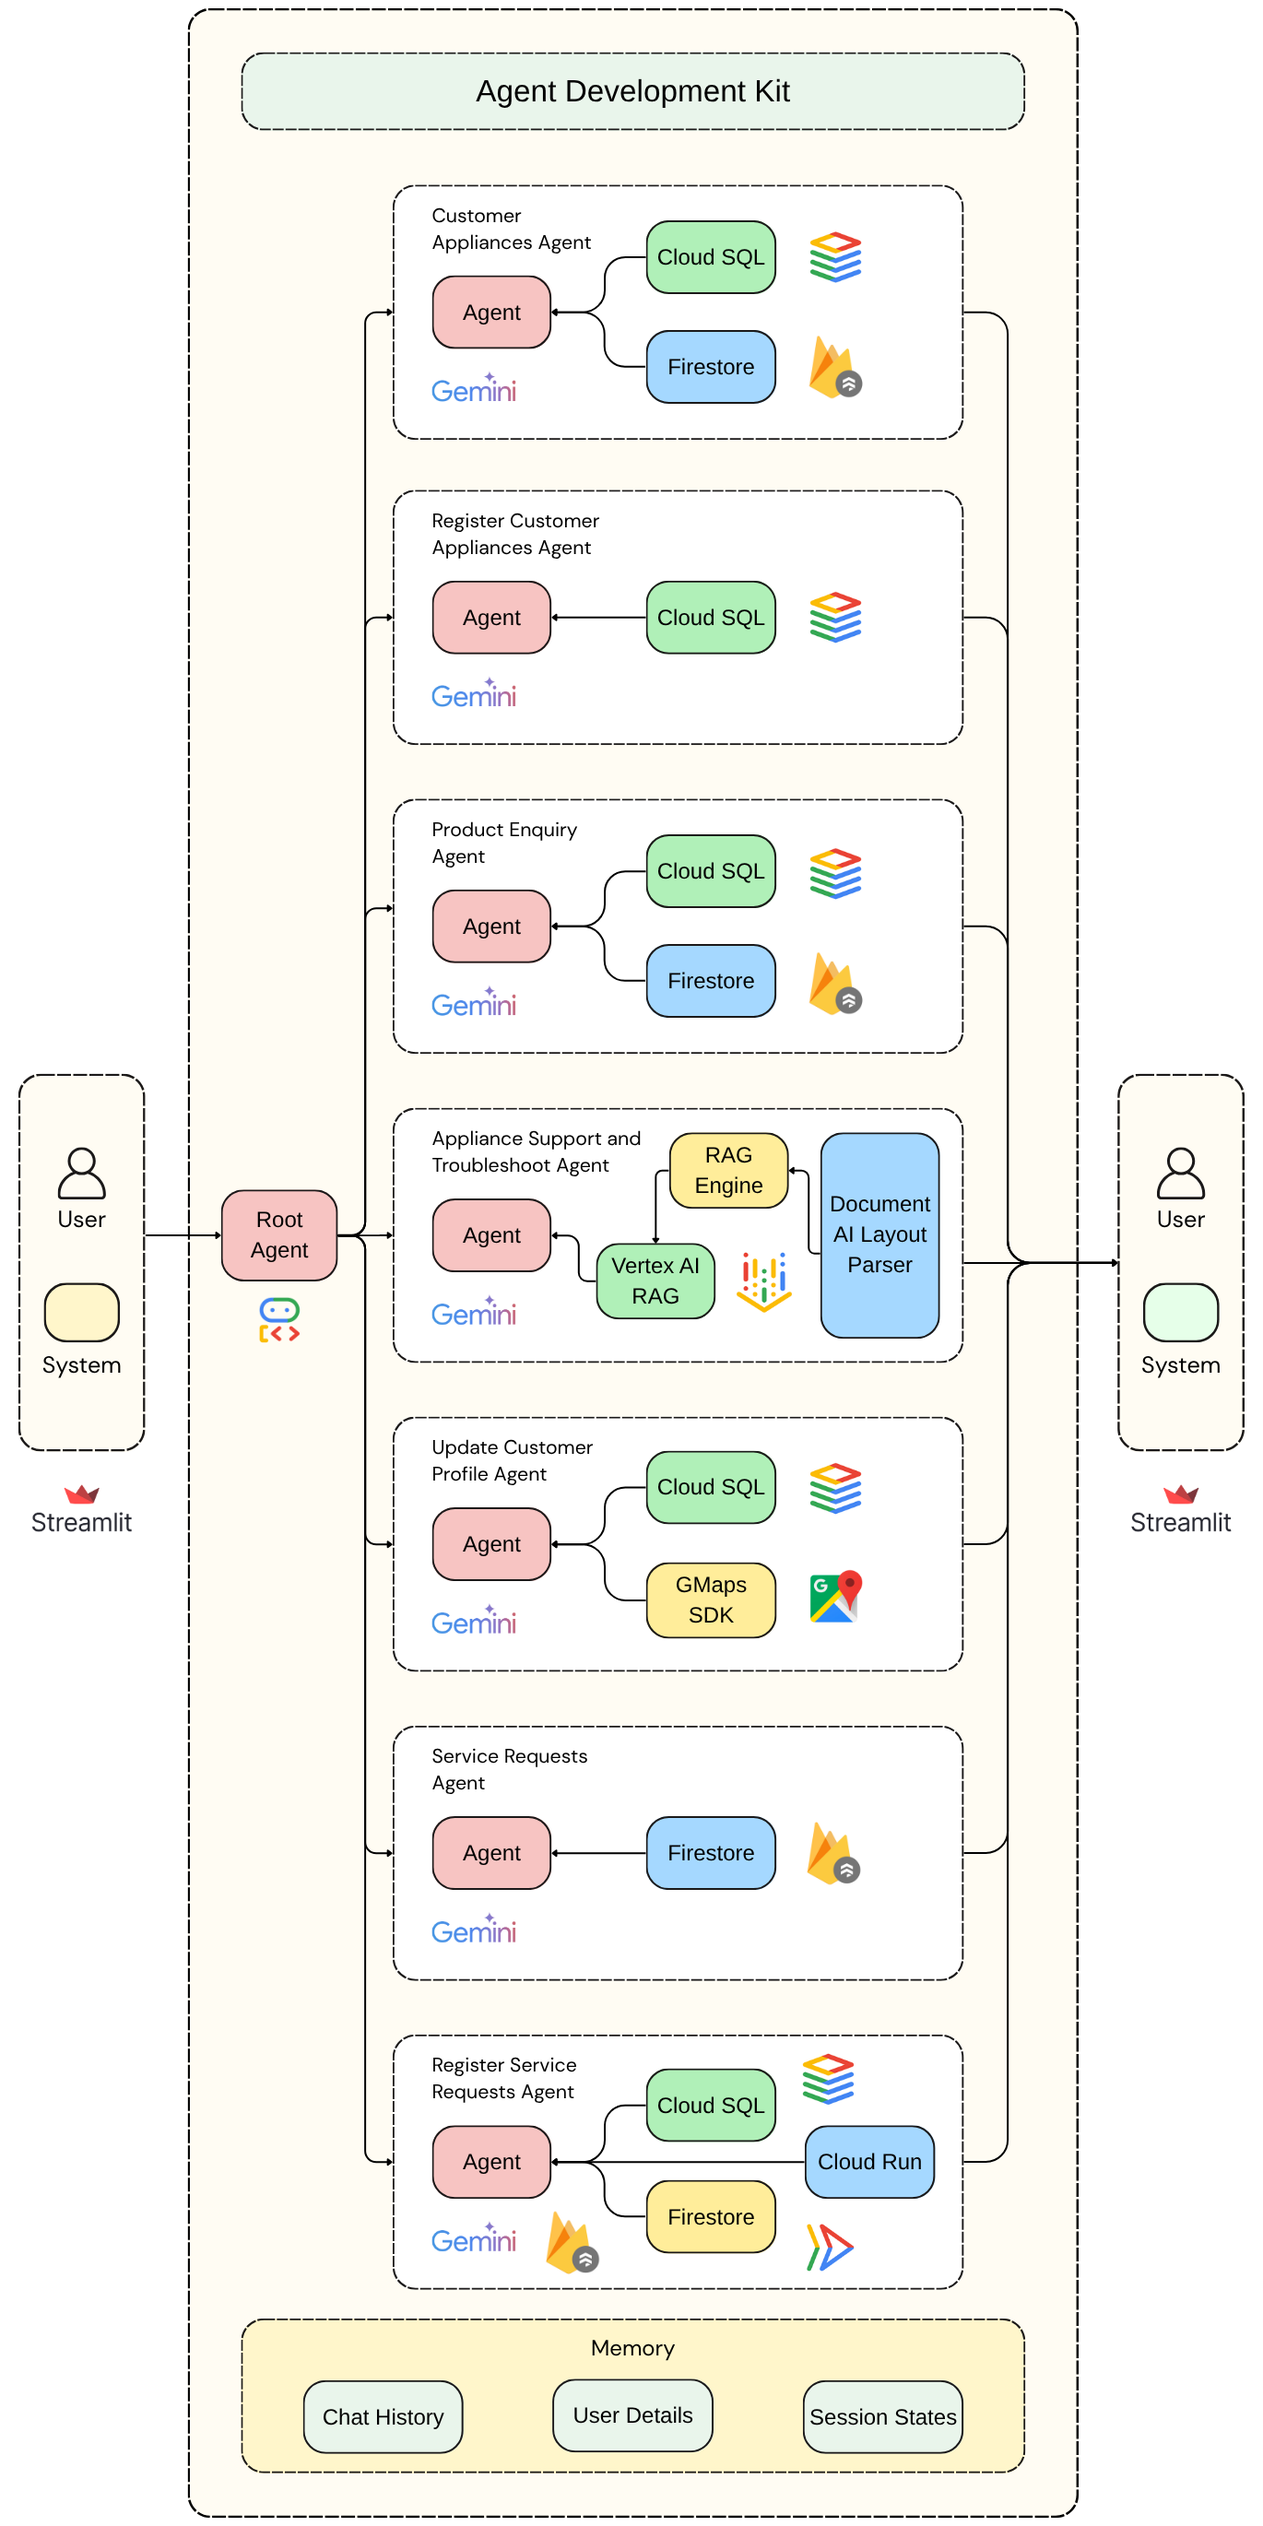
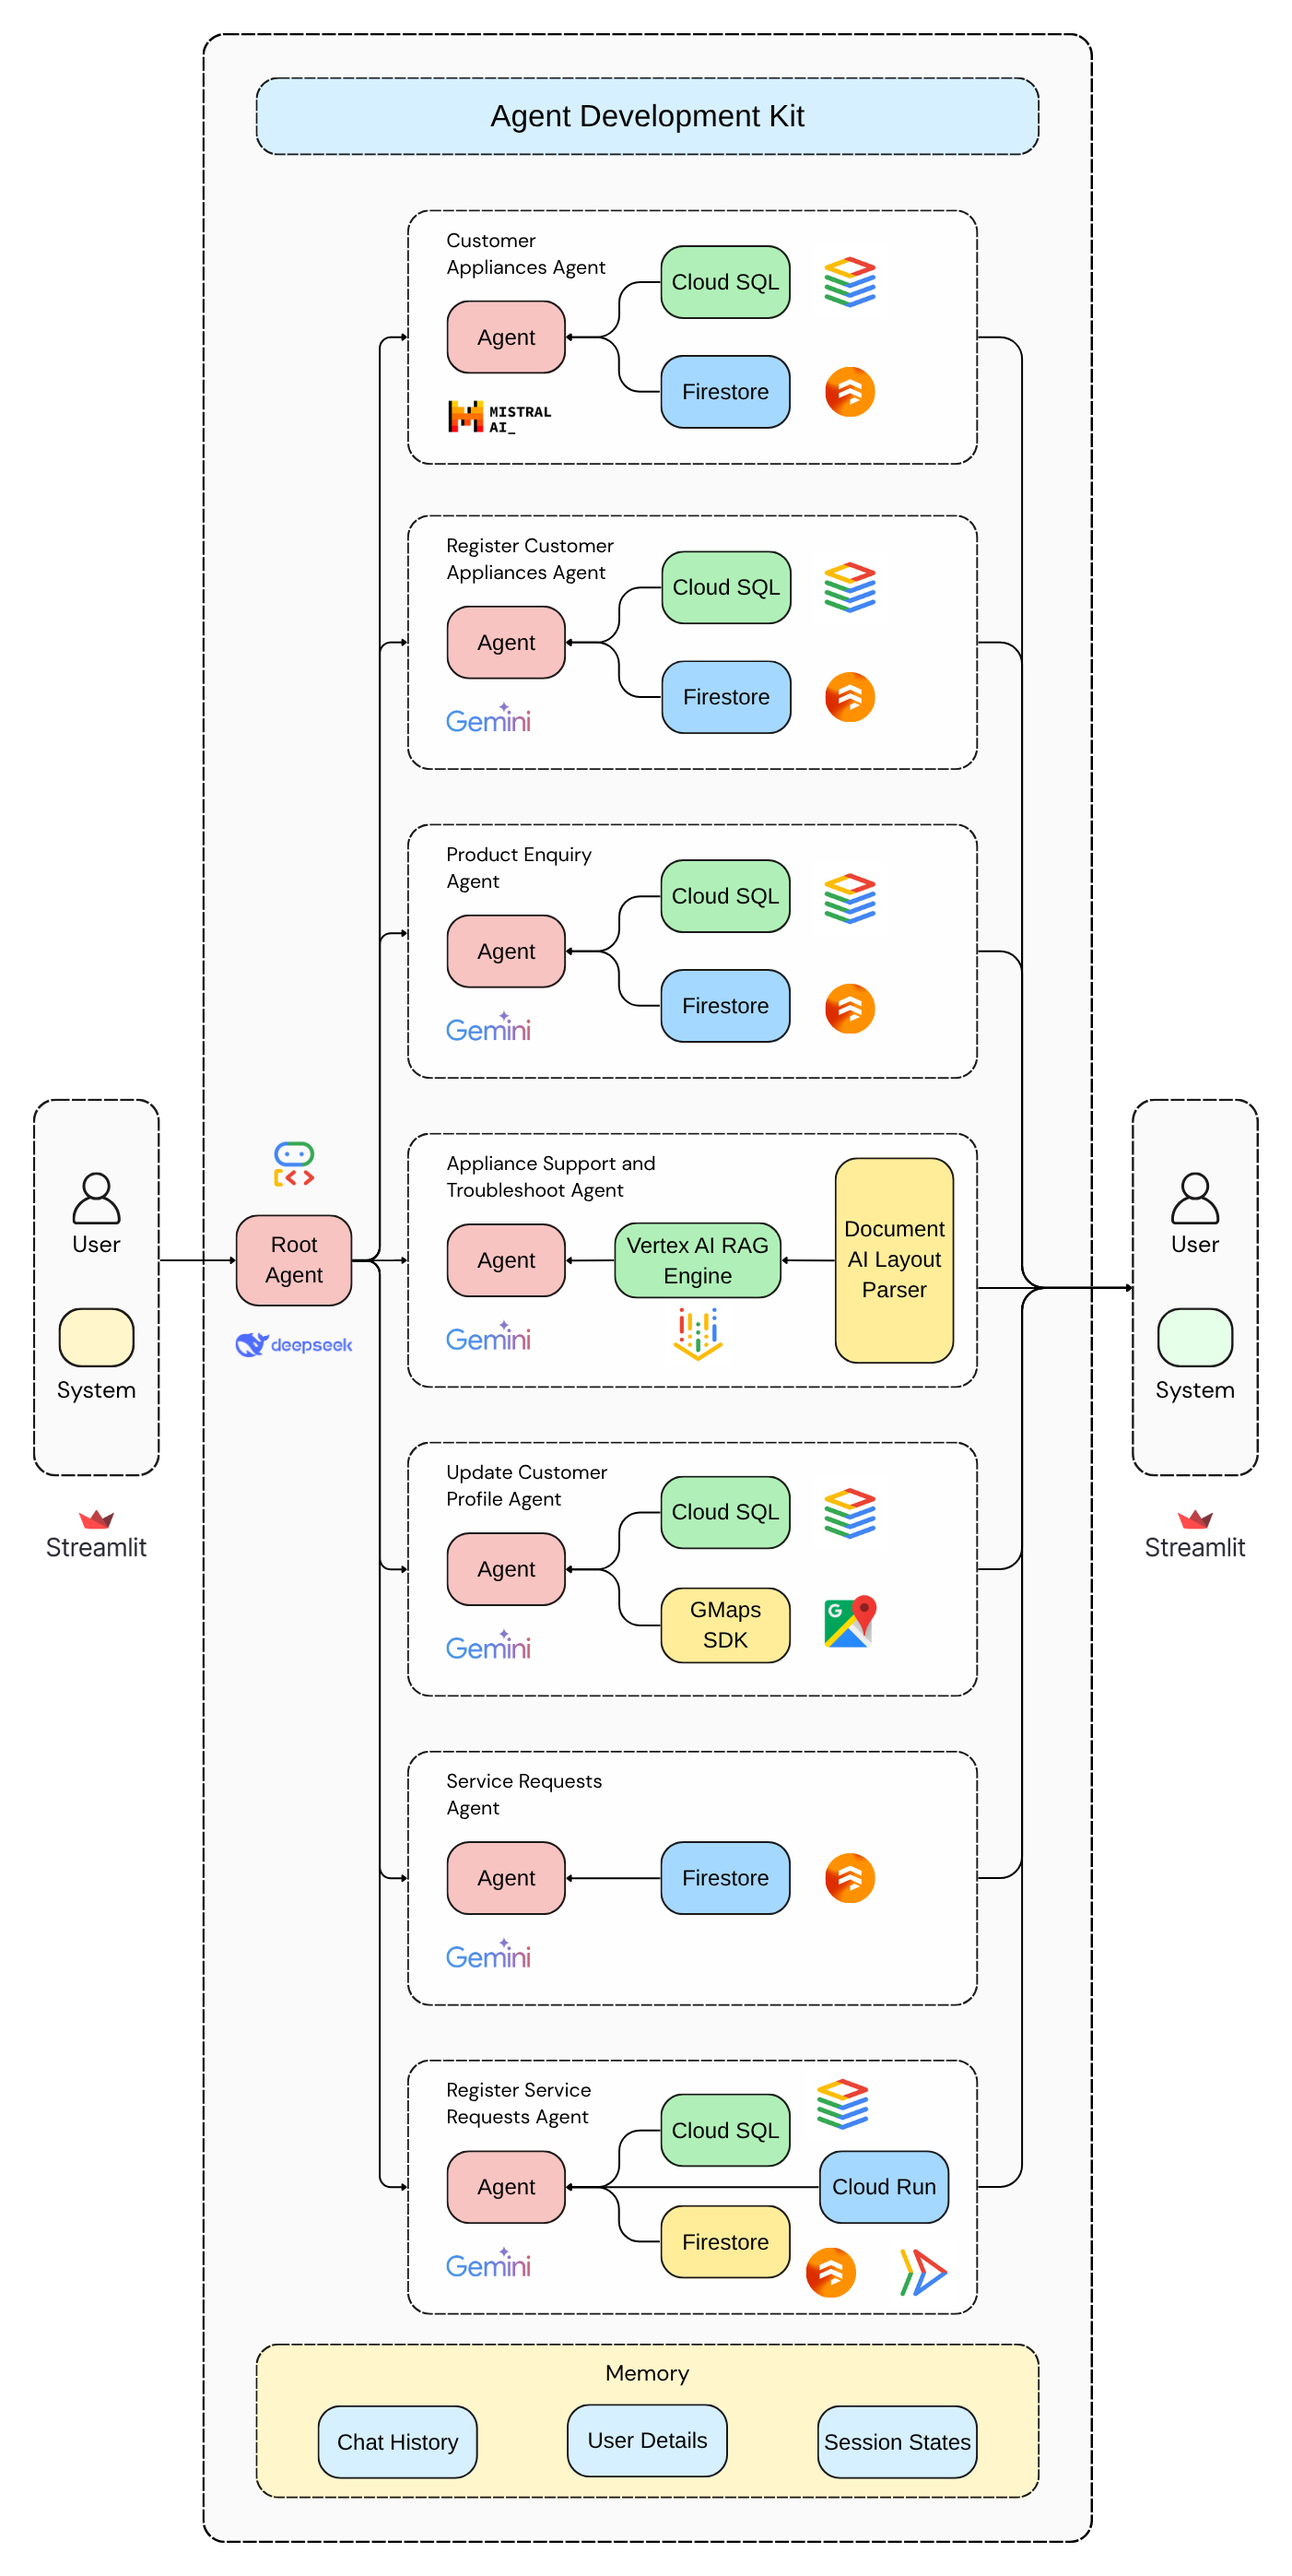
Updated README.md

diff --git a/README.md b/README.md
@@ -1,24 +1,24 @@
 # LogIQ: Smart Appliance Management
 
-Managing home appliances often involves juggling manuals, service calls and scattered records — a highly frustrating experience for many homeowners. With the rise of Agentic AI design framework, there's an opportunity to streamline and improve this process aptly through intelligent systems that can understand, guide, and act on behalf of the users.
+Managing home appliances often involves juggling manuals, service calls and scattered records — a highly frustrating experience for many homeowners. With the rise of **Agentic AI** design framework, there's an opportunity to streamline and improve this process aptly through **intelligent systems** that can understand, guide, and act on behalf of the users
 
-This project showcases LogIQ - a fictional home appliance manufacturer that offers an AI-powered application to help customers seamlessly manage their household devices. At the core of the app is a smart assistant—an  AI chatbot that helps users manage their registered appliances, raise service requests, and look for information about appliance care and maintenance. The chatbot integrates seamlessly with the app, allowing users to interact with its features manually through the interface or switch to **AI mode** for a guided, chat-based experience. Watch the Customer App demo [here](https://github.com/thisisashwinraj/LogIQ-Smart-Appliance-Management/tree/main?tab=readme-ov-file#screenshots)
+This project showcases LogIQ - a fictional home appliance manufacturer that offers an AI-powered application to help customers seamlessly manage their household devices. At the core of the app is a smart assistant—an  AI chatbot that helps users manage their **registered appliances**, **raise service requests** and look for information about **appliance care and maintenance**. The chatbot integrates seamlessly with the app allowing users to interact with its features manually through the interface or switch to **AI Mode** for a guided, chat-based experience. Watch the **customer app demo** [here](https://github.com/thisisashwinraj/LogIQ-Smart-Appliance-Management/tree/main?tab=readme-ov-file#screenshots)
 
 ## Customer App Features
 
-The web app is a **smart home appliance management platform** designed to streamline and enhance how customers interact with their household devices. The app provides a clean, intuitive interface and several key features that make appliance ownership & support effortless. Some of the key aspects of the customer application are as described here:
+The web app is a **smart home appliance management platform** designed to streamline and enhance how customers interact with their household devices. The app provides a clean, intuitive interface, and several key features that make appliance ownership & support effortless. Some of the key aspects of the customer application are as described here:
 
-- **Register Appliances:** Easily register new appliances with their model number, serial number and purchase details
+- **Register Appliances:** Easily register new appliances with their model number, serial number, and purchase details
 - **Raise Service Requests:** Log & manage service requests for registered appliances, to get onsite professional help
-- **View Appliances Details:** Access centralized view of all registered appliances with warranty, specs & support info
-- **View Service Requests Status:** Track ongoing and past service requests, including live status and engineer details
 - **Manage Customer Profile**: Edit & update customer information, including contact details and service preferences
+- **View Appliances Details:** Access centralized view of all registered appliances with warranty, specs, & support info
+- **View Service Requests Status:** Track ongoing and past service requests, including live status and engineer details
 
 ![](https://github.com/thisisashwinraj/LogIQ-Smart-Appliance-Management/blob/main/assets/screenshots/logiq_home_1.PNG)
 
 ## Customer Agent Features
 
-LogIQ's customer agent is a multi-agent system designed to streamline home appliance management and customer support. It use **Google Agent Development Kit (ADK)** to enable intelligent context-aware interactions across agents. These agents then collaborate to interpret the input query, retrieve relevant data, and deliver task specific responses.
+**LogIQ's customer agent** is a **multi-agent system** designed to streamline home appliance management and customer support. It uses **Google Agent Development Kit (ADK)** to enable intelligent context-aware interactions across agents.
 
 - **appliance_troubleshooting_agent:** Handles complex appliance issues, and offers usersafe troubleshooting advice
 - **customer_appliances_agent**: Retrieves and summarizes information about all of customer’s registered appliances
@@ -33,7 +33,7 @@ LogIQ's customer agent is a multi-agent system designed to streamline home appli
 ## Tech Stack
 
 1. **Generative AI on Vertex AI**
-    - **Gemini 2.5 Pro:** Used across AI agents for high-quality, low-latency responses, with function calling support
+    - **Google Gemini:** Used across AI agents for high-quality, low-latency responses, with function calling support
     - **Imagen 4:** Used to generate photo-realistic image catalog of fictional appliances, and other in-app graphics
     - **RAG Engine:** Supports various AI Agents by retrieving relevant answers from the corpus of support manuals
     - **Document AI Layout Parser:** Extracts structured content such as tables from manuals to build a RAG corpus
@@ -48,29 +48,31 @@ LogIQ's customer agent is a multi-agent system designed to streamline home appli
 
 3. **Frontend and Communication Services**
     - **Streamlit:** Python-based frontend with support for custom components, & CSS to enhance the user interface
-    - **Brevo:** Sends automated transactional and notification emails—such as service confirmations, and reminders
     - **Twilio:** For delivering realtime SMS alert to users about service status updates, and engineer visit notification
+    - **Brevo:** Sends automated transactional and notification emails—such as service confirmations, and reminders
 
 ## Customer Agent Architecture
-![](https://github.com/thisisashwinraj/LogIQ-Smart-Appliance-Management/blob/main/assets/architecture/customer_agent_architecture.png)
+**LogIQ** primarily integrates **Gemini 2.5 Pro**, **Gemini 2.5 Flash**, and **Gemini 2.5 Flash Lite** for high-performance tasks. It also integrates with **open-weight models** like **Mistral Small 3.2**, and **DeepSeek-V3** for flexible backend orchestration.
+
+![](https://github.com/thisisashwinraj/LogIQ-Cloud-Services/blob/main/assets/architecture/customer_agent_architecture.png)
 
 ## Data Sources
-The appliance dataset used in this project is entirely synthetic and was generated for demonstration purposes. Brand names, descriptions, and other technical specifications were fabricated using **Gemini 2.5** to simulate realistic product metadata across various categories such as refrigerators, washers & dryers, gas ranges and microwave ovens. Such an approach allowed for consistent, & scalable data creation without relying on any proprietary or sensitive information.
+The appliance dataset used in this project is **entirely synthetic** and was generated for demonstration purposes. Brand names, descriptions, and other technical specifications were **fabricated using Gemini 2.5** to simulate realistic product metadata across various categories such as refrigerators, washers & dryers, gas ranges and microwave ovens. Such an approach allowed for consistent & scalable data creation without relying on any **proprietary** or **sensitive information**.
 
 To visually represent these products within the application, corresponding images were generated using **Imagen 4 on Vertex AI Studio**. These images were generated to closely match the appliance specifications created in the metadata.
 
-For implementing **Retrieval-Augmented Generation (RAG)** workflow, publicly available service manuals were sourced and preprocessed. A service manual was linked to each sub-category to demonstrate grounded response generation. These documents were parsed using the Google Cloud Document AI Layout Parser, and the content was indexed in a **RagManaged Vector Store** to enable the RAG engine to generate contextual responses for appliance troubleshooting
+For implementing **Retrieval-Augmented Generation (RAG)** workflow, publicly available service manuals were sourced and preprocessed. A service manual was linked to each sub-category to demonstrate **grounded** response generation. These documents were parsed using the Google Cloud **Document AI Layout Parser**, and the content was indexed in a **RagManaged Vector Store** to enable the RAG engine to generate contextual responses for appliance troubleshooting
 
 ## Finding and Learnings
 
-1. **Agentic AI enables task decomposition:** Breaking down responsibilities across multiple agents improved clarity, maintainability, and reusability of logic across user tasks, while allowing agents to focus on a single task at hand.
+1. **Agentic AI enables task decomposition:** Breaking down responsibilities across multiple agents improved lucidity, maintainability and reusability of logic across user tasks while allowing agents to attend to a single task at hand
 2. **Context management is key in multi-turn interactions:** Maintaining session state & context across different user intents was essential to avoid redundant questions & to ensure fluid conversations between the user & the agent
 3. **RAG enhances response accuracy:** Integrating the RAG Engine pipeline grounded in service manuals significantly improved the relevance, factual grounding, and trustworthiness of the responses from the troubleshooting agent
 4. **Tool/function calling is essential for dynamic interactions:** Using Gemini 2.5 Pro’s ability to invoke tools enabled real-time execution of tasks like fetching appliance data, updating customer profile, and logging service requests
 
 ## Screenshots
 
-#### 1. Appliance Registration Agent Flow
+#### Appliance Registration Agent Flow
 
 ![](https://github.com/thisisashwinraj/LogIQ-Smart-Appliance-Management/blob/main/assets/screenshots/chat/appliance_registration/chat_register_appliance_1.PNG)
 
@@ -82,6 +84,7 @@ For implementing **Retrieval-Augmented Generation (RAG)** workflow, publicly ava
 
 ![](https://github.com/thisisashwinraj/LogIQ-Smart-Appliance-Management/blob/main/assets/screenshots/chat/appliance_registration/registered_appliance_on_dashboard.PNG)
 
+<!--
 <HR>
 
 #### 2. Product Enquiry Agent Flow
@@ -95,11 +98,12 @@ For implementing **Retrieval-Augmented Generation (RAG)** workflow, publicly ava
 ![](https://github.com/thisisashwinraj/LogIQ-Smart-Appliance-Management/blob/main/assets/screenshots/chat/product_enquiry/chat_product_enquiry_4.PNG)
 
 ![](https://github.com/thisisashwinraj/LogIQ-Smart-Appliance-Management/blob/main/assets/screenshots/chat/product_enquiry/chat_product_enquiry_5.PNG)
+-->
 
-To view examples of multi-turn conversations for all the agents in the customer support agent team, head to [assets/screenshots](https://github.com/thisisashwinraj/LogIQ-Smart-Appliance-Management/tree/main/assets/screenshots/chat)
+To view examples of multiturn conversations for agents in the customer support agent team check [assets/screenshots](https://github.com/thisisashwinraj/LogIQ-Smart-Appliance-Management/tree/main/assets/screenshots/chat)
 
 ## Authors
 - [Ashwin Raj (@thisisashwinraj)](https://www.github.com/thisisashwinraj)
 
 ## Support and Feedback
-Contributions are always welcome from the community. If you have any queries or would like to share any feedback, please drop a line at thisisashwinraj@gmail.com. You can also connect with the author on [LinkedIn](https://www.linkedin.com/in/thisisashwinraj/), or [X (previously Twitter)](https://x.com/thisisashwinraj).
+Contributions are always welcome from the community. If you have any **queries** or would like to **share any feedback**, please drop a line at thisisashwinraj@gmail.com. You can also connect with me over [LinkedIn](https://www.linkedin.com/in/thisisashwinraj/) or [X (previously Twitter)](https://x.com/thisisashwinraj)
